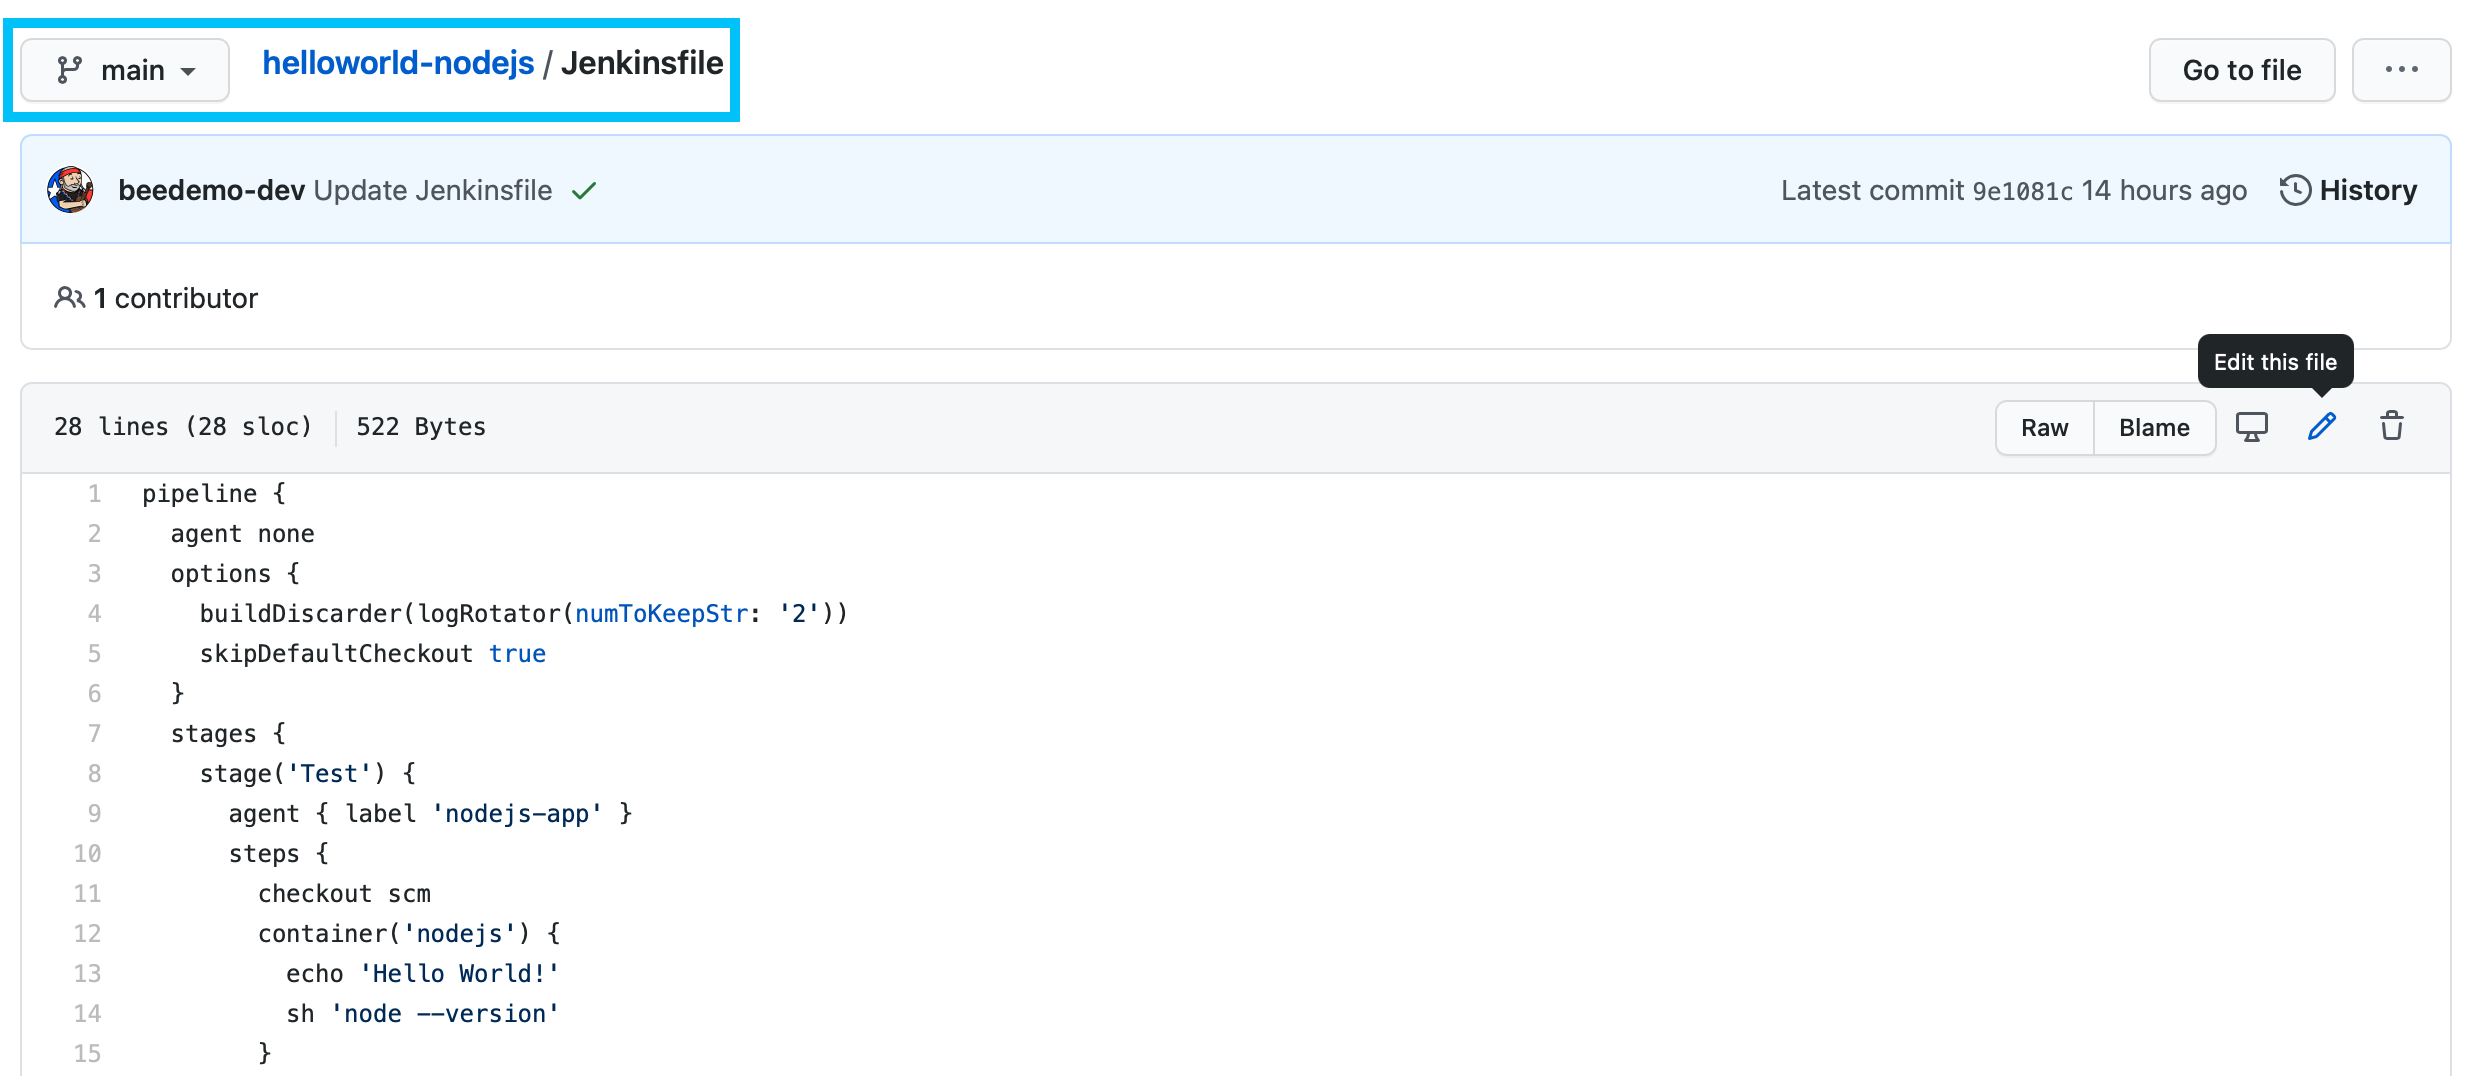
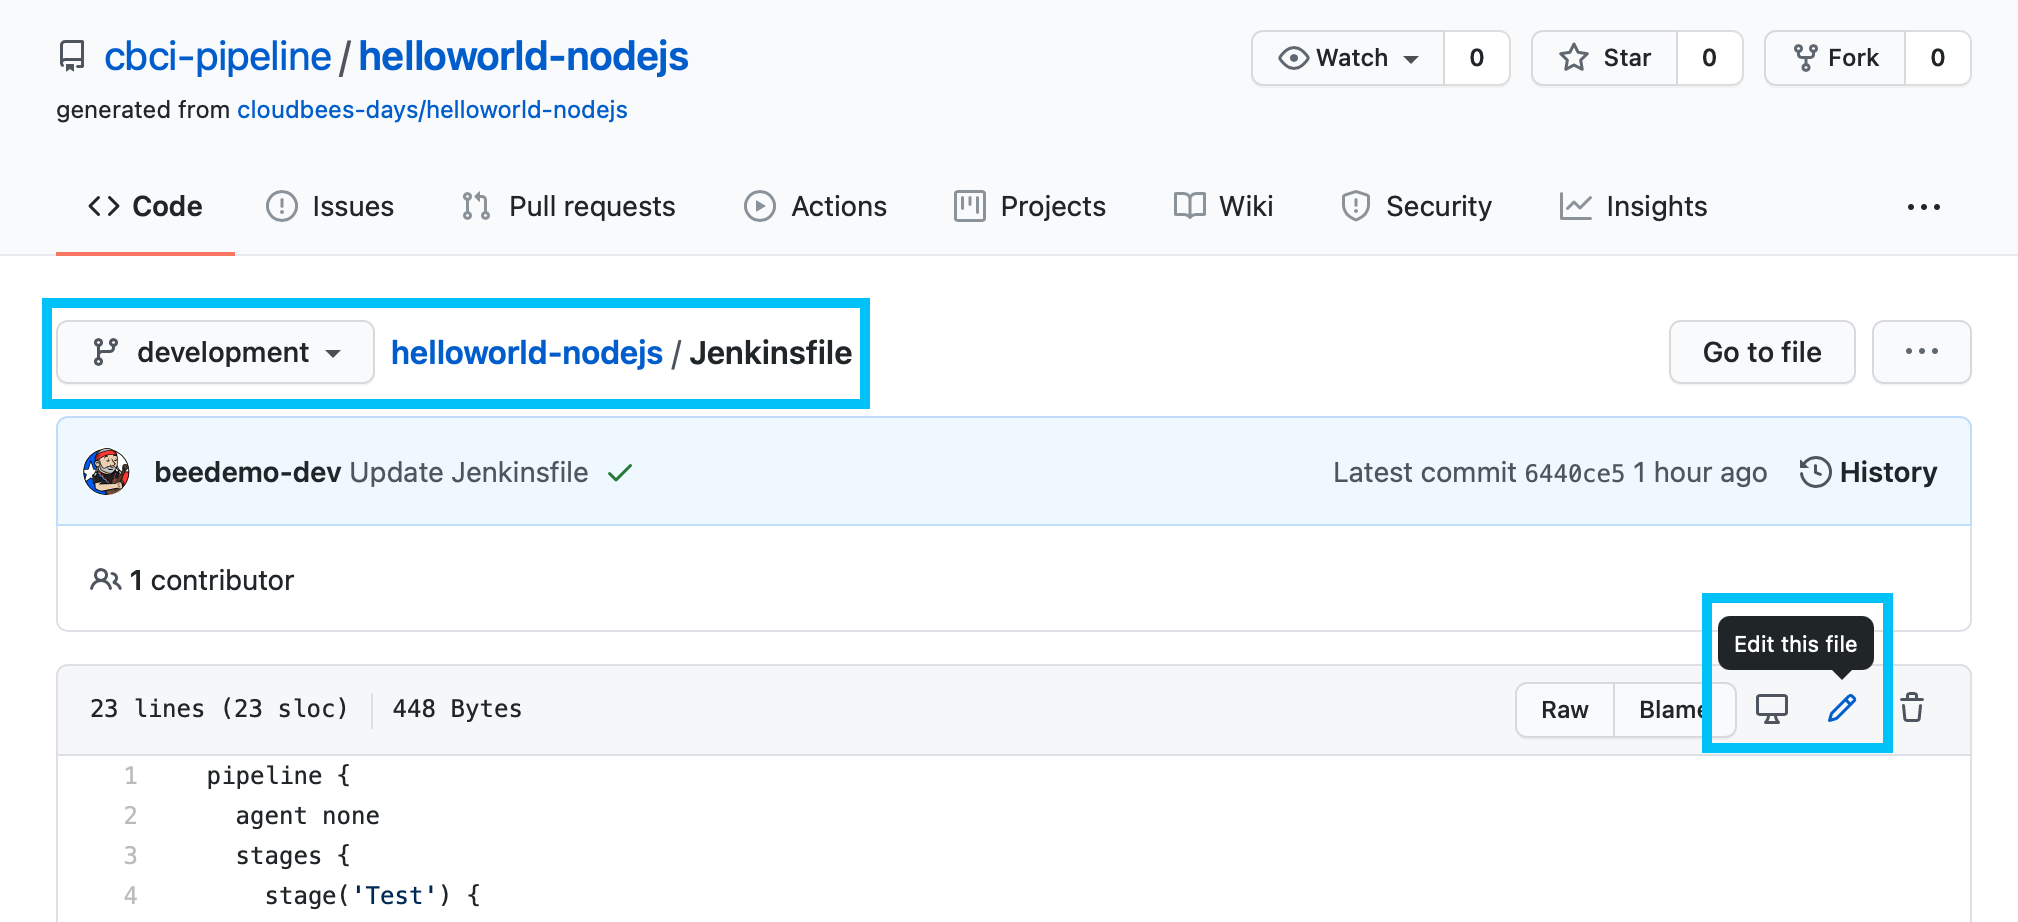
tweaks for custom pod template lab

diff --git a/labs/cloudbees-ci-pipeline/content/labs/custom-pipeline-pod-templates.md b/labs/cloudbees-ci-pipeline/content/labs/custom-pipeline-pod-templates.md
@@ -8,7 +8,7 @@ weight: 4
 
 In this lab we will create a custom Kubernetes Pod Template containing a NodeJS **container** and an additional Docker **container** for executing tests. We also want to use a different version of the **node** container than the one provided by the **nodejs-app** Kubernetes *Pod Template* [defined for us on our Managed Controller](https://go.cloudbees.com/docs/cloudbees-core/cloud-admin-guide/agents/#_editing_pod_templates_per_team_using_masters). In order to be able to control what `containers` and what container `image` version we use in our Pipeline we will update the **Jenkinsfile** Pipeline script with an inline [Kubernetes Pod Template definition](https://github.com/jenkinsci/kubernetes-plugin#declarative-pipeline).
 
-1. The [Jenkins Kubernetes plugin](https://github.com/jenkinsci/kubernetes-plugin#using-yaml-to-define-pod-templates) allows you to use standard Kubernetes Pod yaml configuration to define Pod Templates directly in your Pipeline script, either as a string or a file. We will do just that by creating a new `nodejs-pod.yaml` file and then adding a `yamlFile` parameter to the `agent` declaration with a value of the the repository relative path to that yaml file. The file provides the [Pod spec](https://kubernetes.io/docs/reference/generated/kubernetes-api/v1.11/#pod-v1-core) to be used for the Pod Template based agent. Navigate to your workshop **helloworld-nodejs** repository in your workshop GitHub Organization, make sure you are on the `main` branch, then click the **Add file** button towards the top right of the screen and then select **Create new file**. ![Create Pod Template File](create-pod-template-file.png?width=50pc)
+1. The [Jenkins Kubernetes plugin](https://github.com/jenkinsci/kubernetes-plugin#using-yaml-to-define-pod-templates) allows you to use standard Kubernetes Pod yaml configuration to define Pod Templates directly in your Pipeline script, either as a string or a file. We will do just that by creating a new `nodejs-pod.yaml` file and then adding a `yamlFile` parameter to the `agent` declaration with a value of the the repository relative path to that yaml file. The file provides the [Pod spec](https://kubernetes.io/docs/reference/generated/kubernetes-api/v1.11/#pod-v1-core) to be used for the Pod Template based agent. Navigate to your workshop **helloworld-nodejs** repository in your workshop GitHub Organization, make sure you are on the `development` branch, then click the **Add file** button towards the top right of the screen and then select **Create new file**. **IMPORTANT:** Make sure you are on the `development` branch (the ***Test*** stage will not execute for the `main` branch). ![Create Pod Template File](create-pod-template-file.png?width=50pc)
 2. Name the file `nodejs-pod.yaml` and add the following content:
 ```
 kind: Pod
@@ -29,9 +29,10 @@ spec:
   securityContext:
     runAsUser: 1000
 ```
+*This is a standard Kubernetes Pod Specification.*
 
-3. At the bottom of the screen enter a commit message, leave **Commit directly to the `main` branch** selected and click the **Commit new file** button.
-4. Now we need to update our Pipeline to use that file. Open the GitHub editor for the **Jenkinsfile** Pipeline script in the **main** branch of your workshop **helloworld-nodejs** repository. ![Update Jenkinsfile](update-jenkinsfile.png?width=50pc)
+3. At the bottom of the screen enter a commit message, leave **Commit directly to the `development` branch** selected and click the **Commit new file** button.
+4. Now we need to update our Pipeline to use that file. Open the GitHub editor for the **Jenkinsfile** Pipeline script in the **development** branch of your workshop **helloworld-nodejs** repository. ![Update Jenkinsfile](update-jenkinsfile.png?width=50pc)
 5. Replace the `agent` section of the **Test** `stage` with the following - note that the value of the `yamlFile` parameter is the name of the pod template file we created:
 ```
       agent {
@@ -40,8 +41,137 @@ spec:
         }
       }
 ```
+Your complete `development` branch Jenkinsfile should match the following:
+```
+pipeline {
+  agent none
+  stages {
+    stage('Test') {
+      agent {
+        kubernetes {
+          yamlFile 'nodejs-pod.yaml'
+        }
+      }
+      steps {
+        container('nodejs') {
+          echo 'Hello World!'   
+          sh 'node --version'
+        }
+      }
+    }
+    stage('Build and Push Image') {
+      when {
+        beforeAgent true
+        branch 'main'
+      }
+      steps {
+        echo "TODO - build and push image"
+      }
+    }
+  }
+}
+```
 
-6. Commit the changes and then navigate to the **main** branch of your **helloworld-nodejs** job on your CloudBees CI Managed Controller. The job will run successfully. Also, note the output of the `sh 'node --version'` step - it is `v15.10.0` instead of `v8.12.0`: ![Update Node Container Tag](pod-template-update-image-tag.png?width=50pc)
+6. Commit the changes and then navigate to the **development** branch of your **helloworld-nodejs** job on your CloudBees CI Managed Controller. The job will run successfully. Also, note the output of the `sh 'node --version'` step - it is `v15.10.0` instead of `v8.12.0`: ![Update Node Container Tag](pod-template-update-image-tag.png?width=50pc) Also notice that the final Kubernetes pod spec for the agent is printed out in the logs and is merge of a default template (with the **jnlp** container) and the pod spec from your **helloworld-nodejs** repository:
+```
+---
+apiVersion: "v1"
+kind: "Pod"
+metadata:
+  annotations:
+    buildUrl: "http://teams-cbci-pipeline.sda.svc.cluster.local/teams-cbci-pipeline/job/cbci-pipeline/job/helloworld-nodejs/job/development/12/"
+    runUrl: "job/cbci-pipeline/job/helloworld-nodejs/job/development/12/"
+  labels:
+    jenkins: "slave"
+    jenkins/label-digest: "b81583b250d254ab64fbc7b5e5d06a264e17b05f"
+    jenkins/label: "cbci-pipeline_helloworld-nodejs_development_12-2qpz0"
+    cloudbees.com/master: "teams-cbci-pipeline"
+  name: "cbci-pipeline-helloworld-nodejs-development-12-2qpz0-s1rv-f9nc6"
+spec:
+  affinity:
+    podAffinity:
+      preferredDuringSchedulingIgnoredDuringExecution:
+      - podAffinityTerm:
+          labelSelector:
+            matchExpressions:
+            - key: "com.cloudbees.cje.type"
+              operator: "In"
+              values:
+              - "master"
+              - "cjoc"
+          topologyKey: "kubernetes.io/hostname"
+        weight: 1
+  containers:
+  - command:
+    - "cat"
+    image: "gcr.io/technologists/testcafe:0.0.2"
+    name: "testcafe"
+    tty: true
+    volumeMounts:
+    - mountPath: "/home/jenkins/agent"
+      name: "workspace-volume"
+      readOnly: false
+    workingDir: "/home/jenkins/agent"
+  - command:
+    - "cat"
+    image: "node:15.10.0-alpine"
+    name: "nodejs"
+    tty: true
+    volumeMounts:
+    - mountPath: "/home/jenkins/agent"
+      name: "workspace-volume"
+      readOnly: false
+    workingDir: "/home/jenkins/agent"
+  - args:
+    - "/var/jenkins_config/jenkins-agent"
+    command:
+    - "/bin/sh"
+    env:
+    - name: "JENKINS_SECRET"
+      value: "********"
+    - name: "JENKINS_AGENT_NAME"
+      value: "cbci-pipeline-helloworld-nodejs-development-12-2qpz0-s1rv-f9nc6"
+    - name: "JENKINS_WEB_SOCKET"
+      value: "true"
+    - name: "JENKINS_NAME"
+      value: "cbci-pipeline-helloworld-nodejs-development-12-2qpz0-s1rv-f9nc6"
+    - name: "JENKINS_AGENT_WORKDIR"
+      value: "/home/jenkins/agent"
+    - name: "JENKINS_URL"
+      value: "http://teams-cbci-pipeline.sda.svc.cluster.local/teams-cbci-pipeline/"
+    image: "gcr.io/core-workshop/k8s-jnlp-agent@sha256:28490f8659bcfdae8159286d6c88fdd7365d6928255103e7500f05dd527bdc8f"
+    imagePullPolicy: "IfNotPresent"
+    name: "jnlp"
+    resources:
+      limits: {}
+      requests: {}
+    tty: false
+    volumeMounts:
+    - mountPath: "/var/jenkins_config"
+      name: "volume-0"
+      readOnly: false
+    - mountPath: "/home/jenkins/agent"
+      name: "workspace-volume"
+      readOnly: false
+    workingDir: "/home/jenkins/agent"
+  hostNetwork: false
+  nodeSelector:
+    kubernetes.io/os: "linux"
+  restartPolicy: "Never"
+  securityContext:
+    runAsGroup: 1000
+    runAsUser: 1000
+  serviceAccount: "jenkins"
+  volumes:
+  - configMap:
+      name: "jenkins-agent"
+      optional: false
+    name: "volume-0"
+  - emptyDir:
+      medium: ""
+    name: "workspace-volume"
+
+```
 
 ### Finished Jenkinsfile for *Custom Pipeline Pod Templates*
 ```
